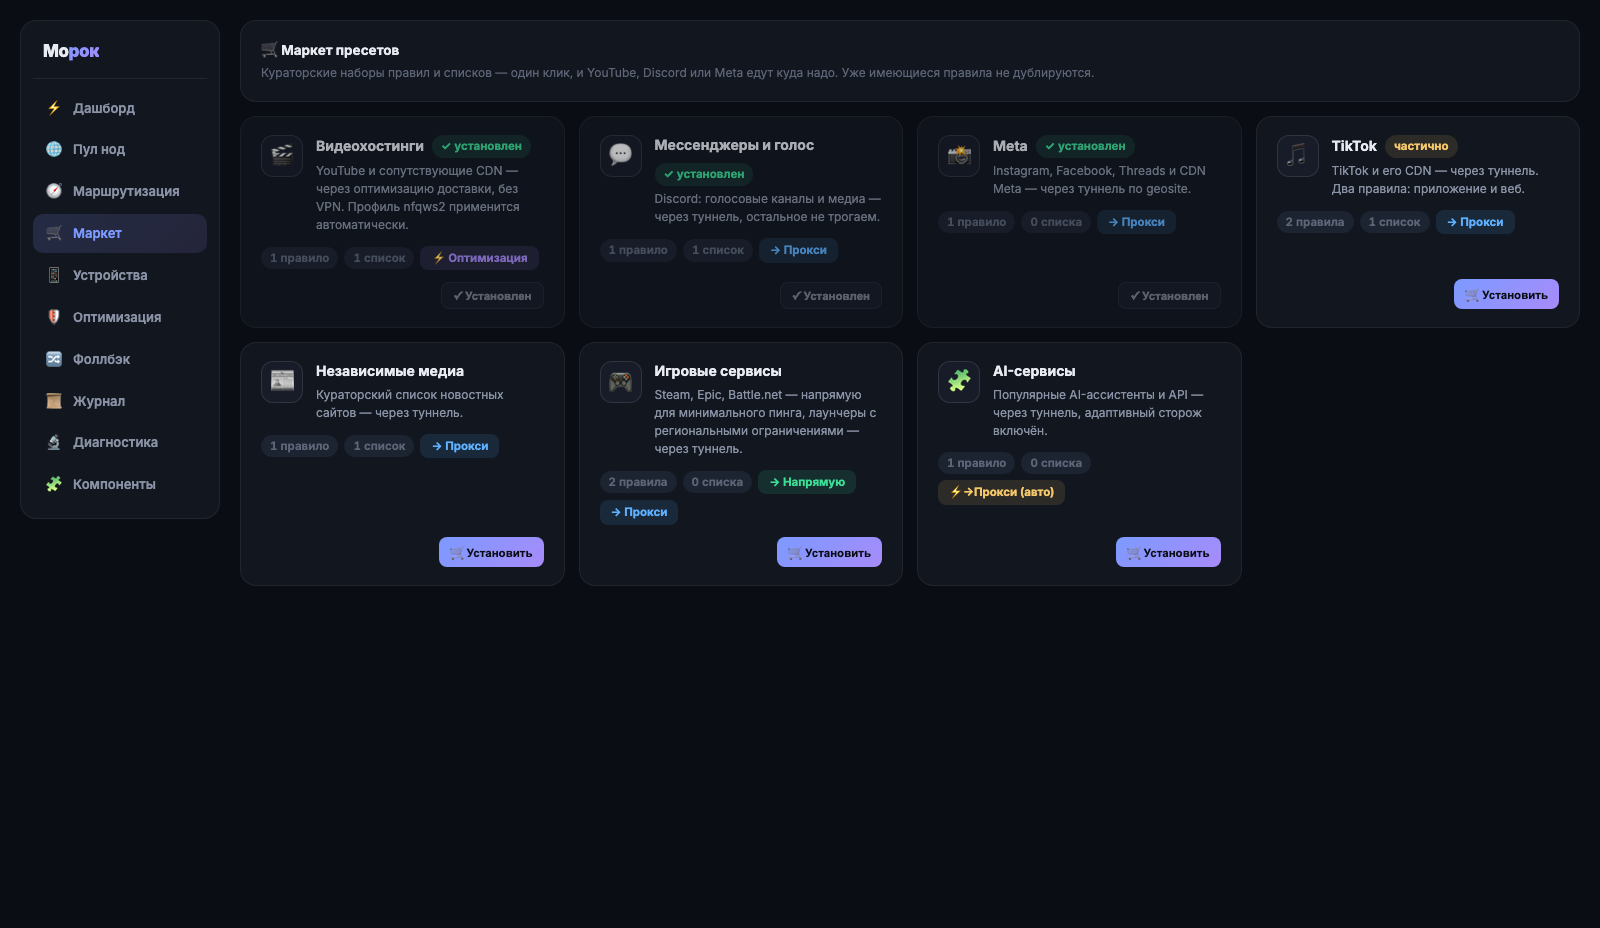
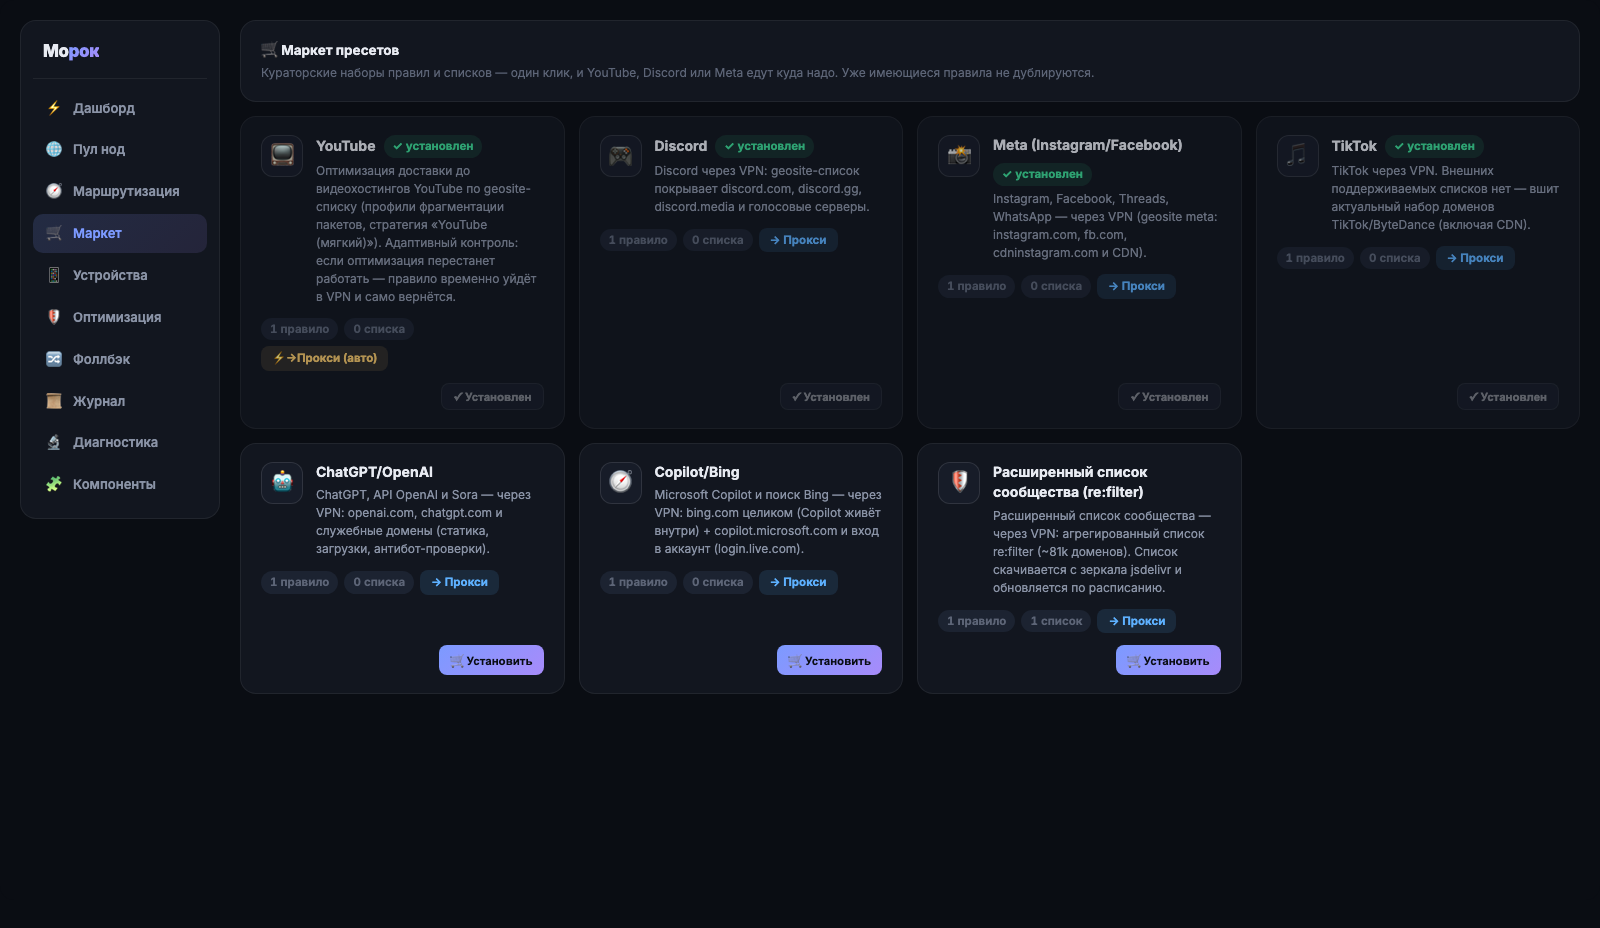
Скриншоты: мок-маркет приведён к настоящему presets.json, пересъёмка

diff --git a/tools/screenshots/mock-data.js b/tools/screenshots/mock-data.js
@@ -130,41 +130,163 @@ function buildMetrics() {
 
 /* ---------- маркет пресетов ---------- */
 var market = { presets: [
-	{ id: 'p-video', emoji: '🎬', label: 'Видеохостинги',
-		description: 'YouTube и сопутствующие CDN — через оптимизацию доставки, без VPN. Профиль nfqws2 применится автоматически.',
-		sources: [ { label: 'YouTube (community list)', url: 'https://lists.example.com/community/youtube.txt', update_interval: 86400 } ],
-		rules: [ { label: 'YouTube', source: 'YouTube (community list)', action: 'antidpi' } ],
-		antidpi_strategy: 'youtube' },
-	{ id: 'p-voice', emoji: '💬', label: 'Мессенджеры и голос',
-		description: 'Discord: голосовые каналы и медиа — через туннель, остальное не трогаем.',
-		sources: [ { label: 'Discord (community list)', url: 'https://lists.example.com/community/discord.txt', update_interval: 86400 } ],
-		rules: [ { label: 'Discord', source: 'Discord (community list)', action: 'proxy' } ] },
-	{ id: 'p-meta', emoji: '📸', label: 'Meta',
-		description: 'Instagram, Facebook, Threads и CDN Meta — через туннель по geosite.',
-		sources: [],
-		rules: [ { label: 'Meta', match_type: 'geosite', match: [ 'meta', 'facebook', 'instagram' ], action: 'proxy' } ] },
-	{ id: 'p-tiktok', emoji: '🎵', label: 'TikTok',
-		description: 'TikTok и его CDN — через туннель. Два правила: приложение и веб.',
-		sources: [ { label: 'TikTok (community list)', url: 'https://lists.example.com/community/tiktok.txt', update_interval: 86400 } ],
-		rules: [
-			{ label: 'TikTok', source: 'TikTok (community list)', action: 'proxy' },
-			{ label: 'TikTok CDN', match_type: 'geosite', match: [ 'tiktokcdn' ], action: 'proxy' }
-		] },
-	{ id: 'p-media', emoji: '📰', label: 'Независимые медиа',
-		description: 'Кураторский список новостных сайтов — через туннель.',
-		sources: [ { label: 'Independent media (community list)', url: 'https://lists.example.com/community/media.txt', update_interval: 86400 } ],
-		rules: [ { label: 'Независимые медиа', source: 'Independent media (community list)', action: 'proxy' } ] },
-	{ id: 'p-games', emoji: '🎮', label: 'Игровые сервисы',
-		description: 'Steam, Epic, Battle.net — напрямую для минимального пинга, лаунчеры с региональными ограничениями — через туннель.',
-		sources: [],
-		rules: [
-			{ label: 'Игровые CDN', match_type: 'geosite', match: [ 'steam', 'epicgames' ], action: 'direct' },
-			{ label: 'Игровые лаунчеры', match_type: 'custom', match: [ 'launcher.example.com' ], action: 'proxy' }
-		] },
-	{ id: 'p-ai', emoji: '🧩', label: 'AI-сервисы',
-		description: 'Популярные AI-ассистенты и API — через туннель, адаптивный сторож включён.',
-		sources: [],
-		rules: [ { label: 'AI-сервисы', match_type: 'geosite', match: [ 'openai', 'anthropic' ], action: 'proxy', adaptive: true } ] }
+  {
+    "id": "youtube",
+    "label": "YouTube",
+    "emoji": "📺",
+    "description": "Оптимизация доставки до видеохостингов YouTube по geosite-списку (профили фрагментации пакетов, стратегия «YouTube (мягкий)»). Адаптивный контроль: если оптимизация перестанет работать — правило временно уйдёт в VPN и само вернётся.",
+    "antidpi_strategy": "youtube",
+    "sources": [],
+    "rules": [
+      {
+        "label": "YouTube",
+        "match_type": "geosite",
+        "match": [
+          "youtube"
+        ],
+        "action": "antidpi",
+        "adaptive": true
+      }
+    ]
+  },
+  {
+    "id": "discord",
+    "label": "Discord",
+    "emoji": "🎮",
+    "description": "Discord через VPN: geosite-список покрывает discord.com, discord.gg, discord.media и голосовые серверы.",
+    "sources": [],
+    "rules": [
+      {
+        "label": "Discord",
+        "match_type": "geosite",
+        "match": [
+          "discord"
+        ],
+        "action": "proxy"
+      }
+    ]
+  },
+  {
+    "id": "meta",
+    "label": "Meta (Instagram/Facebook)",
+    "emoji": "📸",
+    "description": "Instagram, Facebook, Threads, WhatsApp — через VPN (geosite meta: instagram.com, fb.com, cdninstagram.com и CDN).",
+    "sources": [],
+    "rules": [
+      {
+        "label": "Meta",
+        "match_type": "geosite",
+        "match": [
+          "meta"
+        ],
+        "action": "proxy"
+      }
+    ]
+  },
+  {
+    "id": "tiktok",
+    "label": "TikTok",
+    "emoji": "🎵",
+    "description": "TikTok через VPN. Внешних поддерживаемых списков нет — вшит актуальный набор доменов TikTok/ByteDance (включая CDN).",
+    "sources": [],
+    "rules": [
+      {
+        "label": "TikTok",
+        "match_type": "custom",
+        "match": [
+          "tiktok.com",
+          "tiktokv.com",
+          "tiktokv.us",
+          "tiktokw.us",
+          "tiktokcdn.com",
+          "tiktokcdn-us.com",
+          "tiktokcdn-eu.com",
+          "tiktokd.org",
+          "tiktokd.net",
+          "musical.ly",
+          "muscdn.com",
+          "byteoversea.com",
+          "byteoversea.net",
+          "ibyteimg.com",
+          "ibytedtos.com",
+          "isnssdk.com",
+          "sgsnssdk.com",
+          "ipstatp.com",
+          "ttlivecdn.com",
+          "ttwstatic.com",
+          "ttoversea.net",
+          "lf16-tiktok-web.ttwstatic.com"
+        ],
+        "action": "proxy"
+      }
+    ]
+  },
+  {
+    "id": "chatgpt",
+    "label": "ChatGPT/OpenAI",
+    "emoji": "🤖",
+    "description": "ChatGPT, API OpenAI и Sora — через VPN: openai.com, chatgpt.com и служебные домены (статика, загрузки, антибот-проверки).",
+    "sources": [],
+    "rules": [
+      {
+        "label": "ChatGPT/OpenAI",
+        "match_type": "custom",
+        "match": [
+          "chatgpt.com",
+          "openai.com",
+          "oaistatic.com",
+          "oaiusercontent.com",
+          "chat.com",
+          "sora.com",
+          "openaicom.imgix.net",
+          "openai-api.arkoselabs.com"
+        ],
+        "action": "proxy"
+      }
+    ]
+  },
+  {
+    "id": "copilot",
+    "label": "Copilot/Bing",
+    "emoji": "🧭",
+    "description": "Microsoft Copilot и поиск Bing — через VPN: bing.com целиком (Copilot живёт внутри) + copilot.microsoft.com и вход в аккаунт (login.live.com).",
+    "sources": [],
+    "rules": [
+      {
+        "label": "Copilot/Bing",
+        "match_type": "custom",
+        "match": [
+          "copilot.microsoft.com",
+          "bing.com",
+          "bingapis.com",
+          "bing.net",
+          "login.live.com"
+        ],
+        "action": "proxy"
+      }
+    ]
+  },
+  {
+    "id": "rkn-full",
+    "label": "Расширенный список сообщества (re:filter)",
+    "emoji": "🛡",
+    "description": "Расширенный список сообщества — через VPN: агрегированный список re:filter (~81k доменов). Список скачивается с зеркала jsdelivr и обновляется по расписанию.",
+    "sources": [
+      {
+        "label": "re:filter — домены",
+        "url": "https://cdn.jsdelivr.net/gh/1andrevich/Re-filter-lists@main/domains_all.lst"
+      }
+    ],
+    "rules": [
+      {
+        "label": "Расширенный список сообщества (re:filter)",
+        "match_type": "source_list",
+        "source": "re:filter — домены",
+        "match": [],
+        "action": "proxy"
+      }
+    ]
+  }
 ] };
 
 /* ---------- оптимизация доставки ---------- */
